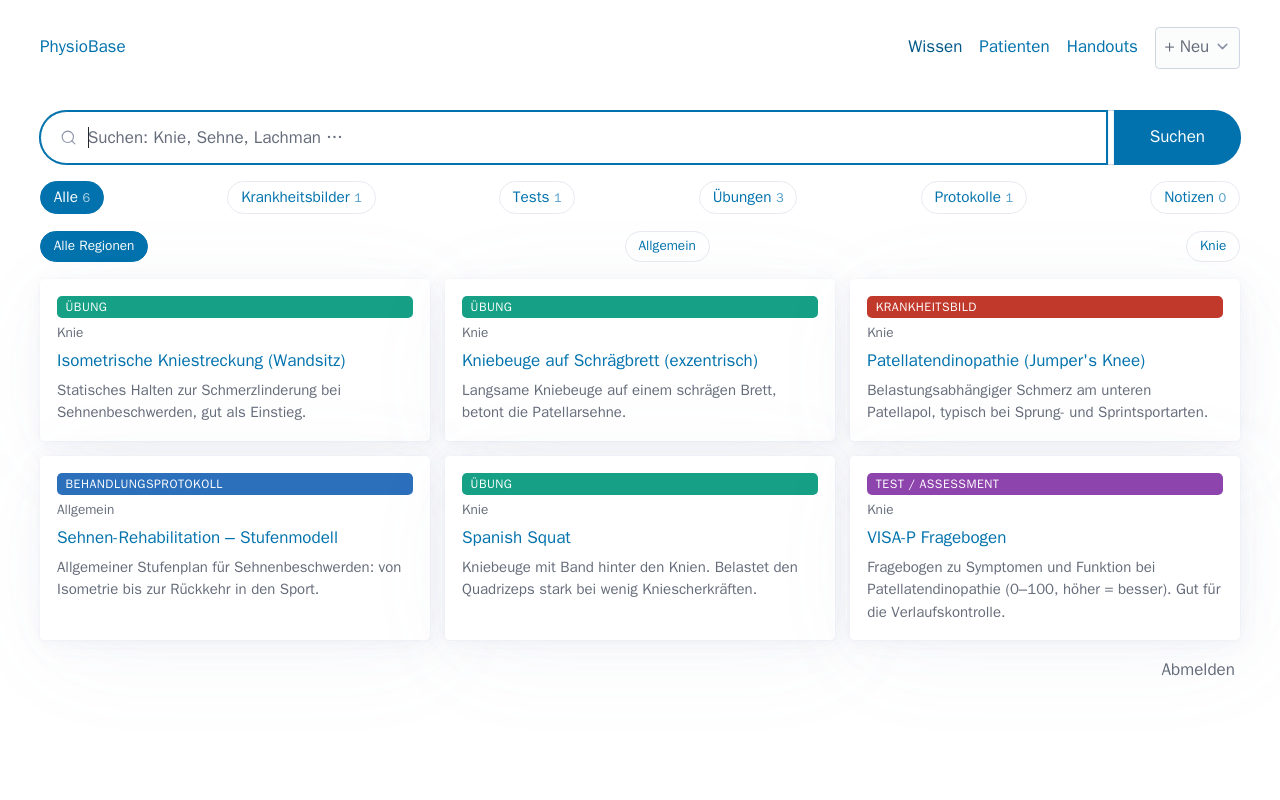
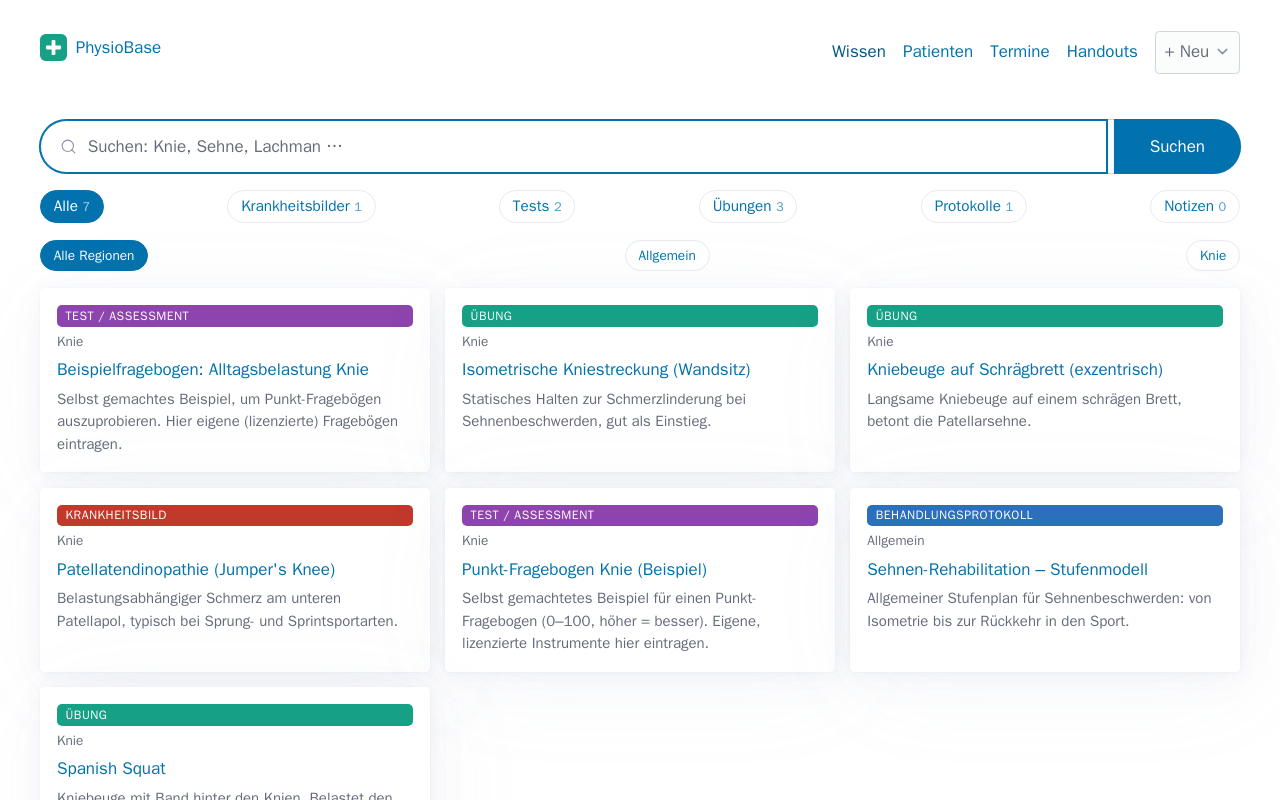
Refresh README previews; drop VISA instrument names from suggestions
The README screenshots were regenerated from a clean instance. The
dropdown of assessment names no longer lists VISA-A/VISA-P (copyrighted
instrument names); remaining entries are generic abbreviations without
instrument content.

Assisted-by: Claude (Anthropic) via the pi coding agent

diff --git a/internal/befund/schema.go b/internal/befund/schema.go
@@ -95,7 +95,7 @@ var (
 	// Vorschläge für Instrumente (nur Namen; Werte trägt man selbst ein)
 	Measures = []string{
 		"NRS Schmerz", "PSFS (Mittelwert)", "ODI", "RMDQ", "NDI", "KOOS", "HOOS", "LEFS", "QuickDASH", "SPADI",
-		"VISA-A", "VISA-P", "FAAM", "TSK", "PCS", "STarT Back", "Örebro (Kurzform)", "EQ-5D",
+		"FAAM", "TSK", "PCS", "STarT Back", "Örebro (Kurzform)", "EQ-5D",
 		"TUG", "30s Chair Stand", "5x Sit-to-Stand", "6MWT", "10m Gehtest", "BBS", "Tinetti", "Einbeinstand",
 		"Handkraft (Dynamometer)", "Y-Balance", "Single Leg Hop", "Borg (RPE)",
 	}
